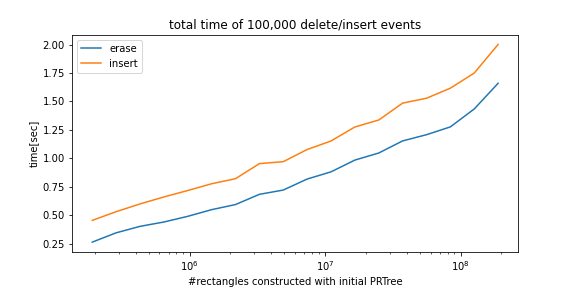
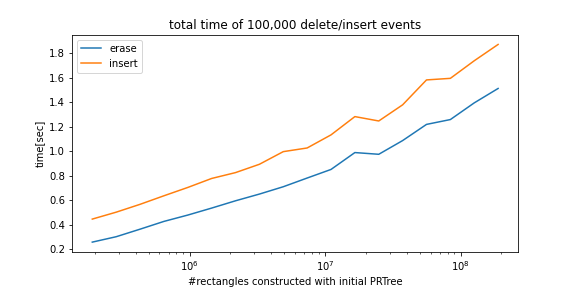
use placement new

diff --git a/cpp/prtree.h b/cpp/prtree.h
@@ -314,7 +314,10 @@ class PseudoPRTree : Uncopyable{
         root = std::make_unique<PseudoPRTreeNode<T, B>>();
       }
       construct(root.get(), b, e, 0);
-      delete[] b;
+      b->~DataType<T>();
+      for (DataType<T>* it = b; it < e; ++it){
+        it->~DataType<T>();
+      }
       b = nullptr;
       e = nullptr;
     }
@@ -381,14 +384,15 @@ class PseudoPRTree : Uncopyable{
       return out;
     }
 
-    std::pair<DataType<int>*, DataType<int>*> as_X(){
+    std::pair<DataType<int>*, DataType<int>*> as_X(void* placement){
       DataType<int> *b, *e;
       auto children = get_all_leaves();
       int total = children.size();
-      b = new DataType<int>[total];
-      e = b + total;
-      for (int i = 0; i<total; i++){
-        b[i] = DataType<int>(i, children[i]->mbb);
+      b = (DataType<int>*)placement;
+      e = b;
+      for (int i = 0; i < total; i++){
+        new(e) DataType<int>{i, children[i]->mbb};
+        e++;
       }
       return {b, e};
     }
@@ -483,21 +487,24 @@ class PRTree : Uncopyable{
         throw std::runtime_error("Bounding box must have the shape (length, 4)");
       }
       size_t length = shape_idx[0];
-      DataType<T> *b, *e;
-      b = new DataType<T>[length];
-      e = b + length;
       umap.reserve(length);
+
+      DataType<T> *b, *e;
+      void *placement = std::malloc(std::max(sizeof(DataType<T>), sizeof(DataType<int>)) * length);
+      b = (DataType<T>*)placement;
+      e = b;
       for (size_t i = 0; i < length; i++){
         auto bb = BB(*x.data(i, 0), *x.data(i, 1), *x.data(i, 2), *x.data(i, 3));
+
+        new(e) DataType<T>{*idx.data(i), bb};
+        e++;
+
         umap.emplace_hint(umap.end(), *idx.data(i), std::move(bb));
       }
-      for (size_t i = 0; i < length; i++){
-        auto bb = BB(*x.data(i, 0), *x.data(i, 1), *x.data(i, 2), *x.data(i, 3));
-        b[i] = DataType<T>(*idx.data(i), bb);
-      }
       //ProfilerStart("construct.prof");
-      build(b, e);
+      build(b, e, placement);
       //ProfilerStop();
+      std::free(placement);
     }
 
     void insert(const T& idx, const py::array_t<double>& x){
@@ -579,7 +586,7 @@ class PRTree : Uncopyable{
 
 
     template<class iterator>
-    void build(iterator b, iterator e){
+    void build(iterator b, iterator e, void *placement){
       vec<Leaf<int, B>*> leaves;
       vec<std::unique_ptr<PRTreeNode<T, B>>> tmp_nodes, prev_nodes;
       std::unique_ptr<PRTreeNode<T, B>> p, q, r;
@@ -590,7 +597,7 @@ class PRTree : Uncopyable{
         prev_nodes.emplace_back(std::move(p));
       }
 
-      auto [bb, ee] = first_tree.as_X();
+      auto [bb, ee] = first_tree.as_X(placement);
       while (likely(prev_nodes.size() > 1)){
         auto tree = PseudoPRTree<int, B>(bb, ee);
         leaves = tree.get_all_leaves();
@@ -617,7 +624,7 @@ class PRTree : Uncopyable{
           }
         }
         {
-          auto tmp = tree.as_X();
+          auto tmp = tree.as_X(placement);
           bb = tmp.first;
           ee = tmp.second;
         }
